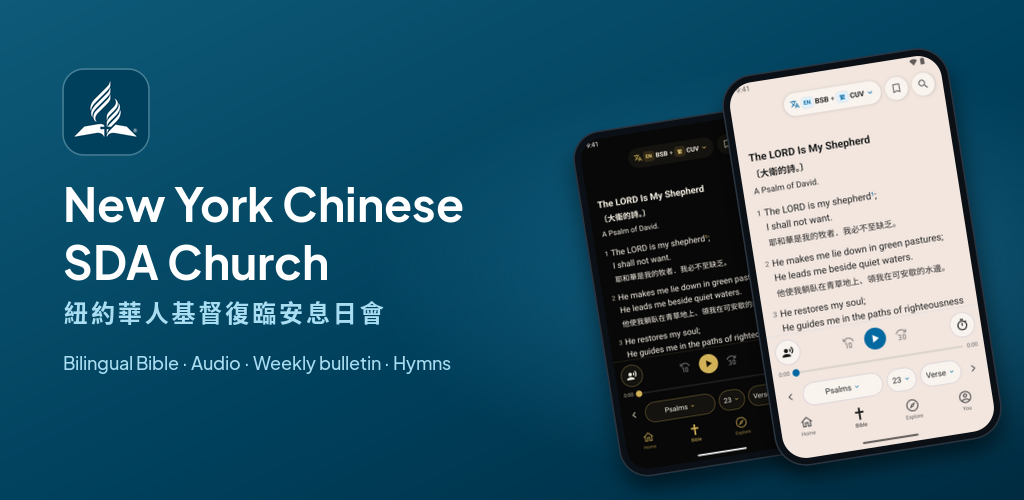
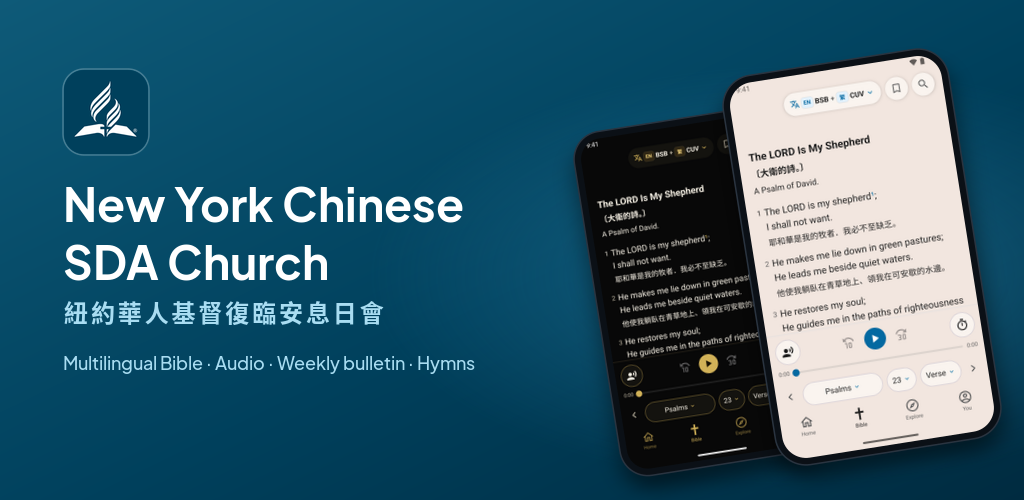
Say Multilingual Bible on the Play feature graphic
The Bible reads in English, Chinese, and Spanish, so "Bilingual" undersold it.

Changed region(s): [[0.0625, 0.69, 0.4688, 0.75]]

diff --git a/docs/operations/play-console-answers.md b/docs/operations/play-console-answers.md
@@ -154,7 +154,7 @@ News & magazines, Events (which means ticket sales), and Music & audio.
   [Store listings](store-listing.md#english).
 - **App icon:** `public/icon-512x512.png`, the same logo as the app's launcher icon.
 - **Feature graphic:** 1024 × 500. It shows the logo, the church's name in English and
-  Chinese, "Bilingual Bible · Audio · Weekly bulletin · Hymns", and two of the phone
+  Chinese, "Multilingual Bible · Audio · Weekly bulletin · Hymns", and two of the phone
   screenshots in phone frames on the brand blue (`#00405C`): the Bible in the dark theme
   behind the Bible in English and Chinese. `scripts/make-play-feature-graphic.cjs`
   builds it from the phone screenshots, so run it again when they change.
